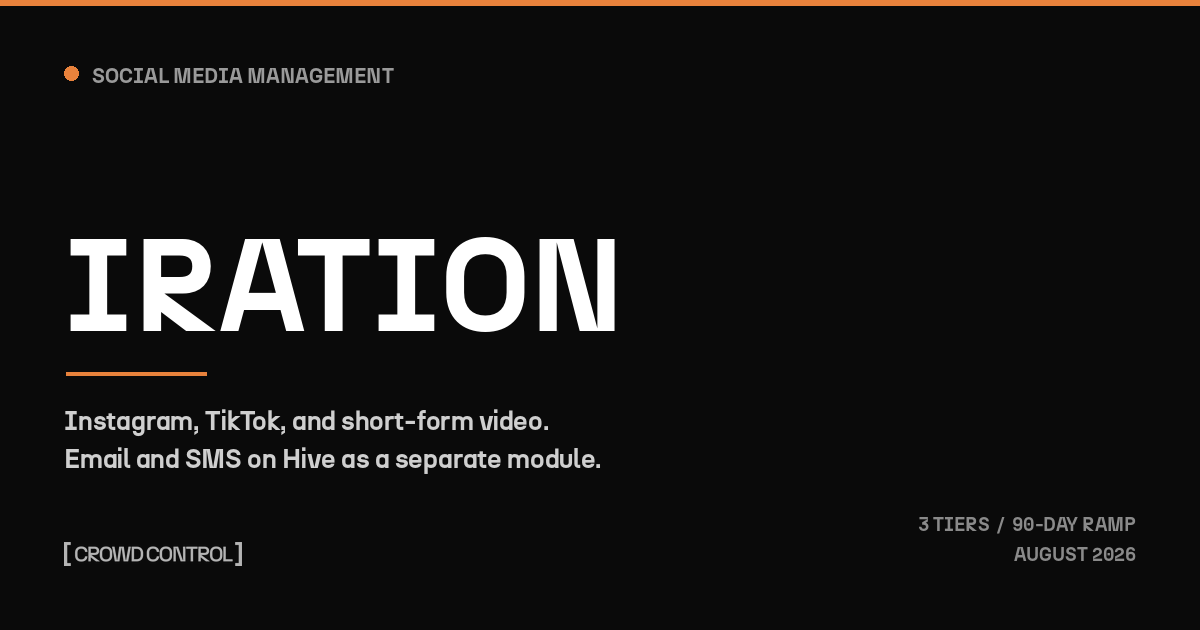
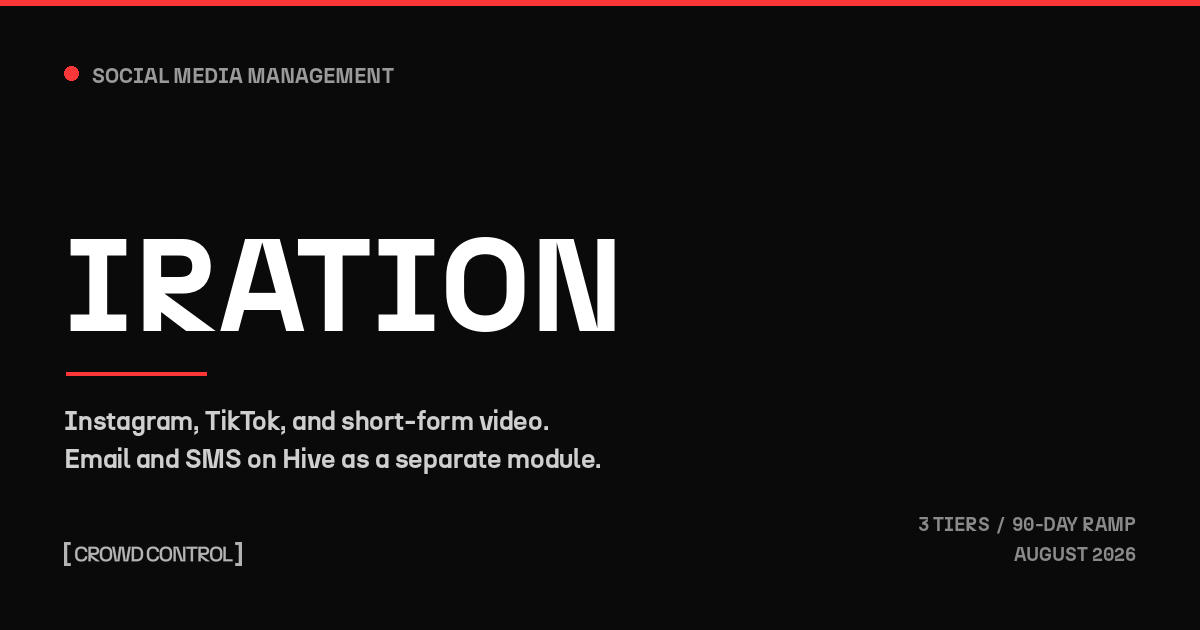
Iration: fix retainer figure clipping in fee box, align accent and OG card to CCD red

Changed region(s): [[0.0, 0.0, 1.0, 0.0302], [0.0617, 0.573, 0.185, 0.6032], [0.0308, 0.0905, 0.0617, 0.1206]]

diff --git a/src/lib/plans/iration.ts b/src/lib/plans/iration.ts
@@ -1,7 +1,7 @@
 import type { StrategyPlanData } from "../plan-context";
 
 export const irationPlan: StrategyPlanData = {
-  accentColor: "#E8823C",
+  accentColor: "#fd3737",
   ogImage: "/images/iration/og-image.png",
   language: "en",
   noIndex: true,
@@ -1167,7 +1167,7 @@ export const irationPlan: StrategyPlanData = {
             { vertical: "Monthly reporting", amount: "$500" },
           ],
           feeBreakdown: {
-            retainer: "$6,000/mo",
+            retainer: "$6,000",
             retainerDetail: "Instagram and TikTok only. Band supplies raw footage.",
             mediaManagement: "15%",
             mediaManagementDetail: "Applied to any media spend Crowd Control administers. None is required at this tier.",
@@ -1189,7 +1189,7 @@ export const irationPlan: StrategyPlanData = {
             { vertical: "Community management", amount: "$750" },
           ],
           feeBreakdown: {
-            retainer: "$9,500/mo",
+            retainer: "$9,500",
             retainerDetail: "Four channels, on-site capture, and the fan capture layer. Capture travel billed at cost.",
             mediaManagement: "15%",
             mediaManagementDetail: "Applied to any media spend Crowd Control administers.",
@@ -1212,7 +1212,7 @@ export const irationPlan: StrategyPlanData = {
             { vertical: "Community management", amount: "$750" },
           ],
           feeBreakdown: {
-            retainer: "$14,000/mo",
+            retainer: "$14,000",
             retainerDetail: "Full owned-channel operation. Shoot-day production costs and travel billed at cost.",
             mediaManagement: "15%",
             mediaManagementDetail: "Applied to media spend Crowd Control administers. Paid social management is included in the retainer.",
